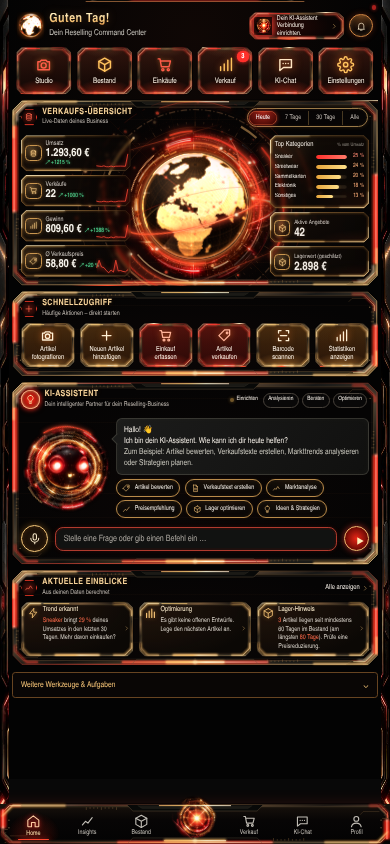
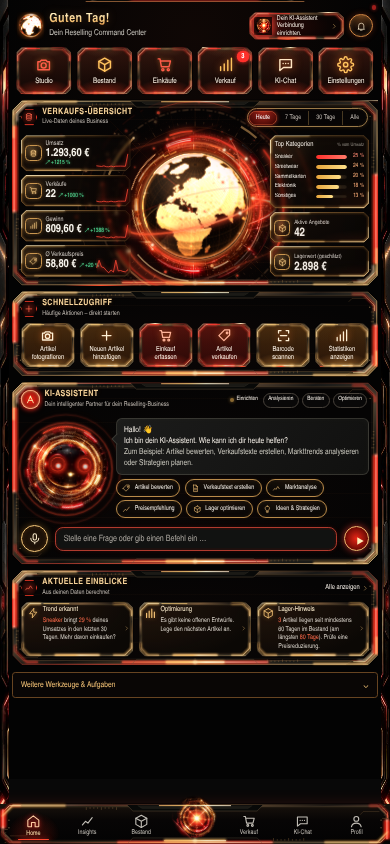
KI-Assistent: Roboter schwebt im Gravitationsfeld, blinzelt und schaut umher
- Kopf, Augen und Mund schweben gemeinsam sanft auf und ab, die Ringe bleiben stehen
- Pulsierendes Gravitationsfeld mit sich ausbreitenden Wellen und Lichtschatten,
  der beim Aufsteigen kleiner wird
- Eingebrannte Augen abgedeckt, eigene glühende Augen mit weißem Kern
- Blinzeln in unregelmäßigen Abständen (manchmal doppelt)
- Umherschauen: Pupillen wandern, der Kopf neigt sich leicht mit
- Bei laufender KI-Anfrage schnellere Wellen und Augenpuls
- Abschnittssymbol als A wie in der Referenz
- Bei reduzierter Bewegung steht alles still

Claude-Session: https://claude.ai/code/session_0194bcZ5PbUBuV3hzmwdGD96

diff --git a/public/fx.css b/public/fx.css
@@ -48,35 +48,56 @@ body:has(#home:not(.hidden))::after { width: calc(17px * var(--cc-zoom, 1)); }
   box-shadow: 0 0 10px 1px rgba(255, 120, 40, .45);
 }
 
-/* ---------- Lebendiger KI-Roboter ---------- */
+/* ---------- Lebendiger KI-Roboter im Gravitationsfeld ---------- */
+.cc-bot { --gx: 0; --gy: 0; }
+.cc-bot-field { position: absolute; inset: -14%; width: 128%; height: 128%; z-index: 0; overflow: visible; pointer-events: none; }
+.cc-field-halo { animation: cc-fieldpulse 5s ease-in-out infinite; transform-box: fill-box; transform-origin: center; }
+.cc-wave { opacity: 0; transform-box: fill-box; transform-origin: center; animation: cc-wave 4.5s ease-out infinite; filter: drop-shadow(0 0 1px #ff4a2c); }
+.cc-wave-1 { animation-delay: -1.5s; } .cc-wave-2 { animation-delay: -3s; }
 .cc-bot .cc-bot-ring {
-  position: absolute; inset: 0; transform-origin: 50% 51%;
+  position: absolute; inset: 0; z-index: 1; transform-origin: 50% 51%;
   -webkit-mask-image: radial-gradient(circle at 50% 51%, transparent 0 33%, #000 35%);
           mask-image: radial-gradient(circle at 50% 51%, transparent 0 33%, #000 35%);
   animation: cc-spin 28s linear infinite;
 }
-.cc-bot .cc-bot-head {
-  position: relative; z-index: 1;
+.cc-bot-float { position: absolute; inset: 0; z-index: 2; display: block; pointer-events: none;
+  animation: cc-float 5.2s ease-in-out infinite;
+  transform: translate(calc(var(--gx) * 1.2%), calc(var(--gy) * 0.8%)) rotate(calc(var(--gx) * 3deg));
+  transition: transform .9s cubic-bezier(.4,.1,.3,1); }
+.cc-bot .cc-bot-head { width: 100%; height: 100%;
   -webkit-mask-image: radial-gradient(circle at 50% 51%, #000 0 33.5%, transparent 35%);
-          mask-image: radial-gradient(circle at 50% 51%, #000 0 33.5%, transparent 35%);
-  animation: cc-bob 4.2s ease-in-out infinite;
-}
-.cc-eye {
-  position: absolute; z-index: 2; width: 15%; height: 15%; top: 48.4%;
-  transform: translate(-50%, -50%); border-radius: 50%; pointer-events: none; mix-blend-mode: screen;
-  background: radial-gradient(circle, #fff 0 13%, #ffd8c4 21%, #ff3b25 40%, rgba(255, 40, 20, .38) 60%, transparent 72%);
-  animation: cc-bob 4.2s ease-in-out infinite, cc-blink 5.6s ease-in-out infinite, cc-eyepulse 2.4s ease-in-out infinite, cc-look 9s ease-in-out infinite;
-}
-.cc-eye-l { left: 40%; }
-.cc-eye-r { left: 69.3%; animation-delay: 0s, .04s, .35s, 0s; }
+          mask-image: radial-gradient(circle at 50% 51%, #000 0 33.5%, transparent 35%); }
+/* Eingebrannte Augen abdecken, eigene Augen darüber */
+.cc-socket { position: absolute; width: 21%; height: 21%; top: 48.9%; transform: translate(-50%, -50%); border-radius: 50%;
+  background: radial-gradient(circle, #1a0705 0 46%, #2a0b07 56%, rgba(60,12,6,.85) 64%, rgba(30,6,3,0) 74%); }
+.cc-socket-l { left: 39.8%; } .cc-socket-r { left: 69.3%; }
+.cc-eye { position: absolute; width: 14%; height: 14%; top: 48.9%; border-radius: 50%; pointer-events: none;
+  transform: translate(-50%, -50%) scaleY(1); transition: transform .07s ease-in;
+  box-shadow: 0 0 0 1.2px rgba(255,80,50,.75), 0 0 8px 1px rgba(255,40,20,.55), inset 0 0 5px rgba(255,40,20,.5);
+  background: radial-gradient(circle at 50% 50%, #120303 0 60%, #2a0604 72%); }
+.cc-eye-l { left: 39.8%; } .cc-eye-r { left: 69.3%; }
+.cc-pupil { position: absolute; left: 50%; top: 50%; width: 62%; height: 62%; border-radius: 50%;
+  transform: translate(calc(-50% + var(--gx) * 26%), calc(-50% + var(--gy) * 26%));
+  transition: transform .35s cubic-bezier(.3,.1,.2,1);
+  background: radial-gradient(circle, #fff 0 20%, #ffe6d8 28%, #ff5a3a 44%, #ff2a18 56%, rgba(255,30,15,.35) 68%, transparent 72%);
+  box-shadow: 0 0 12px 4px rgba(255,40,20,.85), 0 0 22px 6px rgba(255,40,20,.35); mix-blend-mode: normal; animation: cc-eyepulse 2.4s ease-in-out infinite; }
+.cc-blinking .cc-eye { transform: translate(-50%, -50%) scaleY(.08); }
 .cc-mouth {
-  position: absolute; z-index: 2; left: 54%; top: 59%; width: 6%; height: 4%; transform: translate(-50%, -50%);
+  position: absolute; z-index: 2; left: 54.5%; top: 59.5%; width: 6%; height: 4%; transform: translate(-50%, -50%);
   border-radius: 50%; background: radial-gradient(circle, #ffe0b0 0 20%, #ff9a40 45%, transparent 72%);
-  mix-blend-mode: screen; pointer-events: none; animation: cc-bob 4.2s ease-in-out infinite, cc-eyepulse 1.8s ease-in-out infinite;
+  mix-blend-mode: screen; pointer-events: none; animation: cc-eyepulse 1.8s ease-in-out infinite;
 }
+.cc-bot-shadow { position: absolute; left: 50%; bottom: 3%; width: 46%; height: 7%; z-index: 0; border-radius: 50%; pointer-events: none;
+  transform: translateX(-50%); background: radial-gradient(ellipse, rgba(255,70,30,.55), rgba(255,40,20,.15) 55%, transparent 72%);
+  filter: blur(2px); animation: cc-shadow 5.2s ease-in-out infinite; }
 .cc-bot.cc-busy .cc-bot-ring { animation-duration: 5s; }
-.cc-bot.cc-busy .cc-eye { animation-duration: 4.2s, 5.6s, .6s, 2.4s; }
+.cc-bot.cc-busy .cc-pupil { animation-duration: .6s; }
+.cc-bot.cc-busy .cc-wave { animation-duration: 1.8s; }
 .cc-bot.cc-busy .cc-bot-hud .cc-spin-b { animation-duration: 3.5s; }
+@keyframes cc-float { 0%, 100% { translate: 0 1.6%; } 50% { translate: 0 -3.4%; } }
+@keyframes cc-shadow { 0%, 100% { scale: 1.08 1; opacity: .95; } 50% { scale: .78 .8; opacity: .5; } }
+@keyframes cc-wave { 0% { scale: .92; opacity: 0; } 15% { opacity: .75; } 100% { scale: 1.42; opacity: 0; } }
+@keyframes cc-fieldpulse { 0%, 100% { opacity: .75; scale: .96; } 50% { opacity: 1; scale: 1.04; } }
 
 /* ---------- Lichtkanten, die über die Rahmen laufen ---------- */
 .cc-glint { position: absolute; inset: 0; overflow: hidden; pointer-events: none; z-index: 4; }
@@ -134,7 +155,7 @@ body:has(#home:not(.hidden)) .cc-embers { display: block; }
 
 @media (prefers-reduced-motion: reduce) {
   .cc-glint, .cc-embers { display: none !important; }
-  .cc-spin-a, .cc-spin-b, .cc-sweep, .cc-bot-ring, .cc-bot-head, .cc-eye, .cc-mouth,
+  .cc-spin-a, .cc-spin-b, .cc-sweep, .cc-bot-ring, .cc-bot-head, .cc-eye, .cc-mouth, .cc-bot-float, .cc-pupil, .cc-wave, .cc-field-halo, .cc-bot-shadow,
   .lux-bottomnav .orb img, #homeAiSend { animation: none !important; }
   .v11-m svg.spark polyline { stroke-dashoffset: 0; animation: none !important; }
 }

diff --git a/public/fx.js b/public/fx.js
@@ -413,23 +413,60 @@
     var f = doc.querySelector('.v15-bot-frame'); if (!f || f.querySelector('.cc-bot-ring')) return;
     var img = f.querySelector('img'); if (!img) return;
     f.classList.add('cc-bot');
+    // Gravitationsfeld hinter dem Roboter: Halo und sich ausbreitende Wellen
+    var field = svgEl('svg', { viewBox: '0 0 100 100', class: 'cc-bot-field', 'aria-hidden': 'true' });
+    var fd = svgEl('defs', {}), fg = svgEl('radialGradient', { id: 'ccBotField' });
+    [['0', '#ff3a20', '.35'], ['.55', '#a01a0a', '.16'], ['1', '#000', '0']].forEach(function (q) { fg.appendChild(svgEl('stop', { offset: q[0], 'stop-color': q[1], 'stop-opacity': q[2] })); });
+    fd.appendChild(fg); field.appendChild(fd);
+    field.appendChild(svgEl('circle', { cx: '50', cy: '51', r: '50', fill: 'url(#ccBotField)', class: 'cc-field-halo' }));
+    for (var w = 0; w < 3; w++) field.appendChild(svgEl('circle', { cx: '50', cy: '51', r: '36', fill: 'none', stroke: w === 1 ? '#ffc070' : '#ff4a2c', 'stroke-width': '.6', class: 'cc-wave cc-wave-' + w }));
+    f.insertBefore(field, img);
     var ring = img.cloneNode(false); ring.className = 'cc-bot-ring'; ring.removeAttribute('id'); ring.alt = ''; ring.setAttribute('aria-hidden', 'true');
     f.insertBefore(ring, img);
-    img.classList.add('cc-bot-head');
-    ['l', 'r'].forEach(function (k) { var e = doc.createElement('span'); e.className = 'cc-eye cc-eye-' + k; e.setAttribute('aria-hidden', 'true'); f.appendChild(e); });
-    var m = doc.createElement('span'); m.className = 'cc-mouth'; m.setAttribute('aria-hidden', 'true'); f.appendChild(m);
+    // Schwebender Körper: Kopf, Augenhöhlen, Augen, Mund bewegen sich gemeinsam
+    var body = doc.createElement('span'); body.className = 'cc-bot-float'; body.setAttribute('aria-hidden', 'true');
+    f.insertBefore(body, img);
+    img.classList.add('cc-bot-head'); body.appendChild(img);
+    var eyes = [];
+    ['l', 'r'].forEach(function (k) {
+      var so = doc.createElement('span'); so.className = 'cc-socket cc-socket-' + k;
+      var e = doc.createElement('span'); e.className = 'cc-eye cc-eye-' + k;
+      var pu = doc.createElement('i'); pu.className = 'cc-pupil'; e.appendChild(pu);
+      body.appendChild(so); body.appendChild(e); eyes.push(e);
+    });
+    var m = doc.createElement('span'); m.className = 'cc-mouth'; body.appendChild(m);
+    var shadow = doc.createElement('span'); shadow.className = 'cc-bot-shadow'; shadow.setAttribute('aria-hidden', 'true'); f.appendChild(shadow);
     var svg = svgEl('svg', { viewBox: '0 0 100 100', class: 'cc-bot-hud', 'aria-hidden': 'true' });
     var a = svgEl('g', { class: 'cc-spin-b' });
     a.appendChild(svgEl('path', { d: 'M50 4 A47 47 0 0 1 93.5 33', fill: 'none', stroke: '#ff4a2c', 'stroke-width': '1.1', 'stroke-linecap': 'round', class: 'cc-glowline' }));
     a.appendChild(svgEl('path', { d: 'M7 68 A47 47 0 0 1 4 46', fill: 'none', stroke: '#ffc070', 'stroke-width': '.7', 'stroke-linecap': 'round' }));
-    var b = svgEl('g', { class: 'cc-spin-a' });
-    b.appendChild(svgEl('circle', { cx: '50', cy: '51', r: '36', fill: 'none', stroke: '#ffb070', 'stroke-opacity': '.35', 'stroke-width': '.4', 'stroke-dasharray': '1 3' }));
-    svg.appendChild(a); svg.appendChild(b); f.appendChild(svg);
+    var bb = svgEl('g', { class: 'cc-spin-a' });
+    bb.appendChild(svgEl('circle', { cx: '50', cy: '51', r: '36', fill: 'none', stroke: '#ffb070', 'stroke-opacity': '.35', 'stroke-width': '.4', 'stroke-dasharray': '1 3' }));
+    svg.appendChild(a); svg.appendChild(bb); f.appendChild(svg);
     doc.addEventListener('rv:ai-state', function (e) {
       var st = e && e.detail && e.detail.state;
       f.classList.toggle('cc-busy', st === 'busy');
       f.classList.toggle('cc-ok', st === 'ready');
     });
+    if (reduce) return;
+    // Blinzeln in unregelmäßigen Abständen, manchmal doppelt
+    function blink() {
+      if (homeVisible() && !doc.hidden) {
+        f.classList.add('cc-blinking');
+        setTimeout(function () { f.classList.remove('cc-blinking'); }, 150);
+        if (Math.random() < 0.25) setTimeout(function () { f.classList.add('cc-blinking'); setTimeout(function () { f.classList.remove('cc-blinking'); }, 140); }, 330);
+      }
+      setTimeout(blink, 2200 + Math.random() * 4200);
+    }
+    // Umherschauen: Blickziel wechselt, Kopf neigt sich leicht mit
+    var looks = [[0, 0], [-1, 0], [1, 0], [-0.7, -0.6], [0.7, -0.6], [0.5, 0.5], [-0.5, 0.4], [0, -0.8]];
+    function look() {
+      var tgt = Math.random() < 0.35 ? [0, 0] : looks[1 + Math.floor(Math.random() * (looks.length - 1))];
+      f.style.setProperty('--gx', tgt[0].toFixed(2));
+      f.style.setProperty('--gy', tgt[1].toFixed(2));
+      setTimeout(look, 1300 + Math.random() * 2600);
+    }
+    setTimeout(blink, 1800); setTimeout(look, 1200);
   }
 
   function setupFills() {

diff --git a/public/sw.js b/public/sw.js
@@ -1,4 +1,4 @@
-const CACHE='rv-studio-v18-reference-6';
+const CACHE='rv-studio-v18-reference-7';
 const FILES=['/','/index.html','/app.css','/dashboard.css','/fx.css','/ref.css','/app.js','/dashboard.js','/fx.js',
   '/vendor/jszip.min.js','/fonts/command-sans-regular.otf','/fonts/command-sans-bold.otf',
   '/rv-logo.jpg','/rv-ai-mascot.png','/rv-robot-premium.png','/rv-white.png',

diff --git a/public/index.html b/public/index.html
@@ -338,7 +338,7 @@
 <div class="v11-ph">
 <span class="hx">
 <svg class="v11-ico" viewBox="0 0 24 24" aria-hidden="true">
-<path d="M9 18h6M10 21h4M12 3a6 6 0 0 0-3.5 10.9c.6.5 1 1.2 1 2.1h5c0-.9.4-1.6 1-2.1A6 6 0 0 0 12 3Z"/>
+<path d="M5.5 19.5 12 4.5l6.5 15M8.6 14.2h6.8M12 4.5v4" stroke-width="2"/>
 </svg>
 </span>
 <div class="tt">
